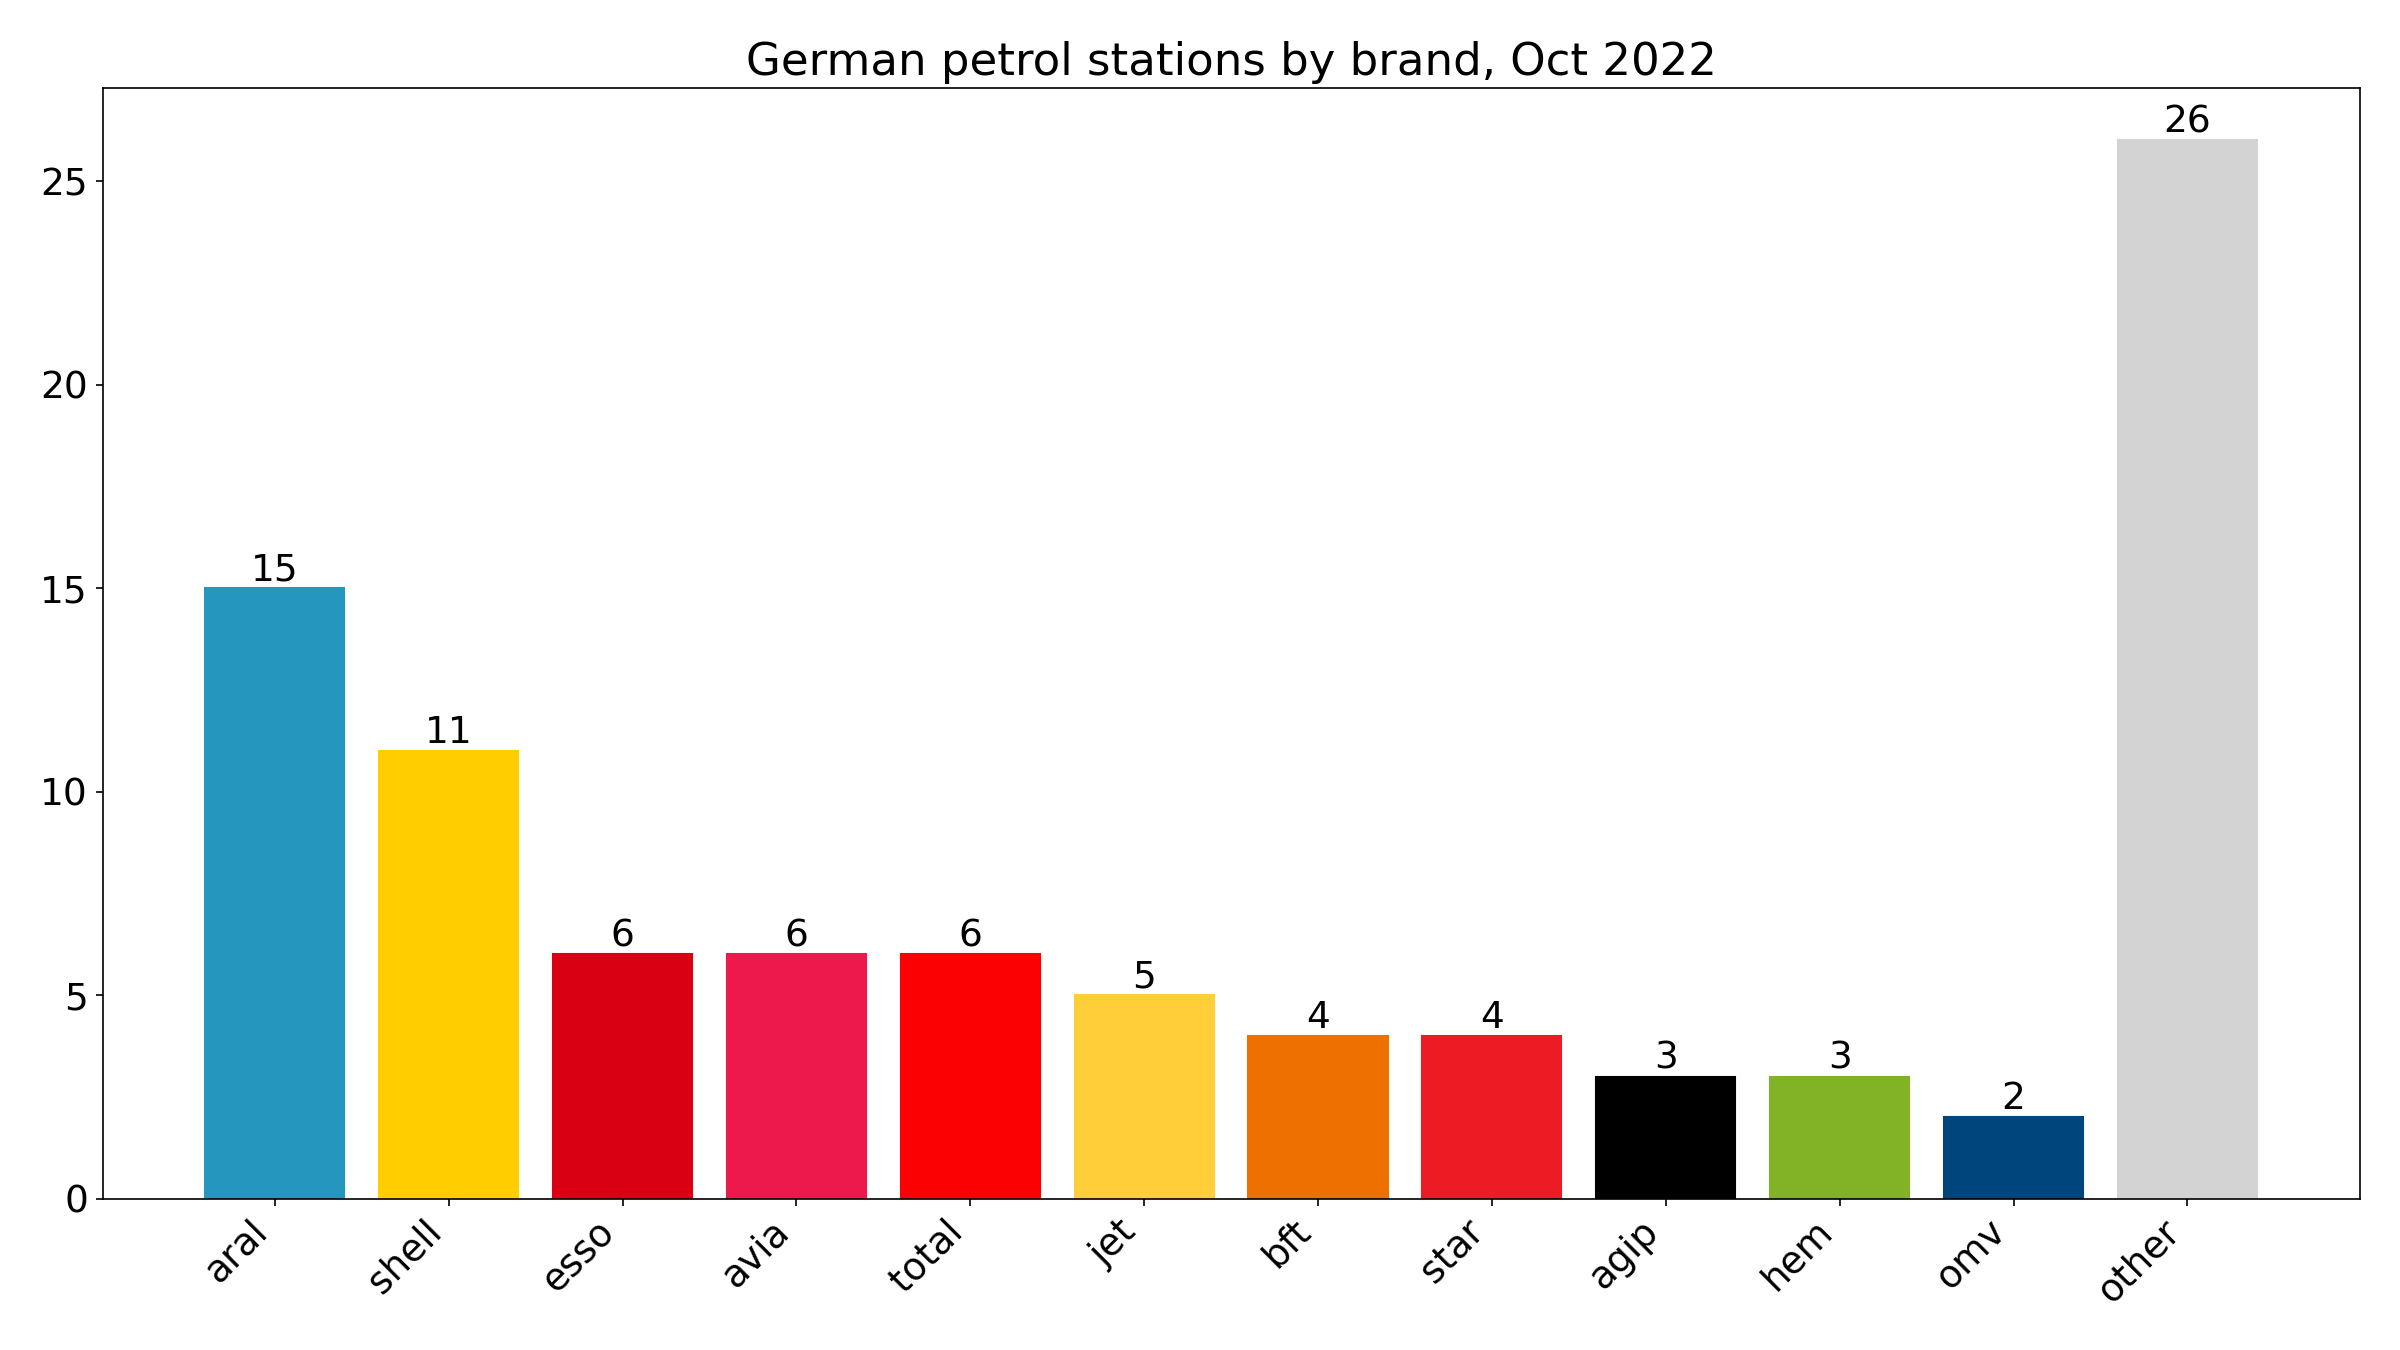
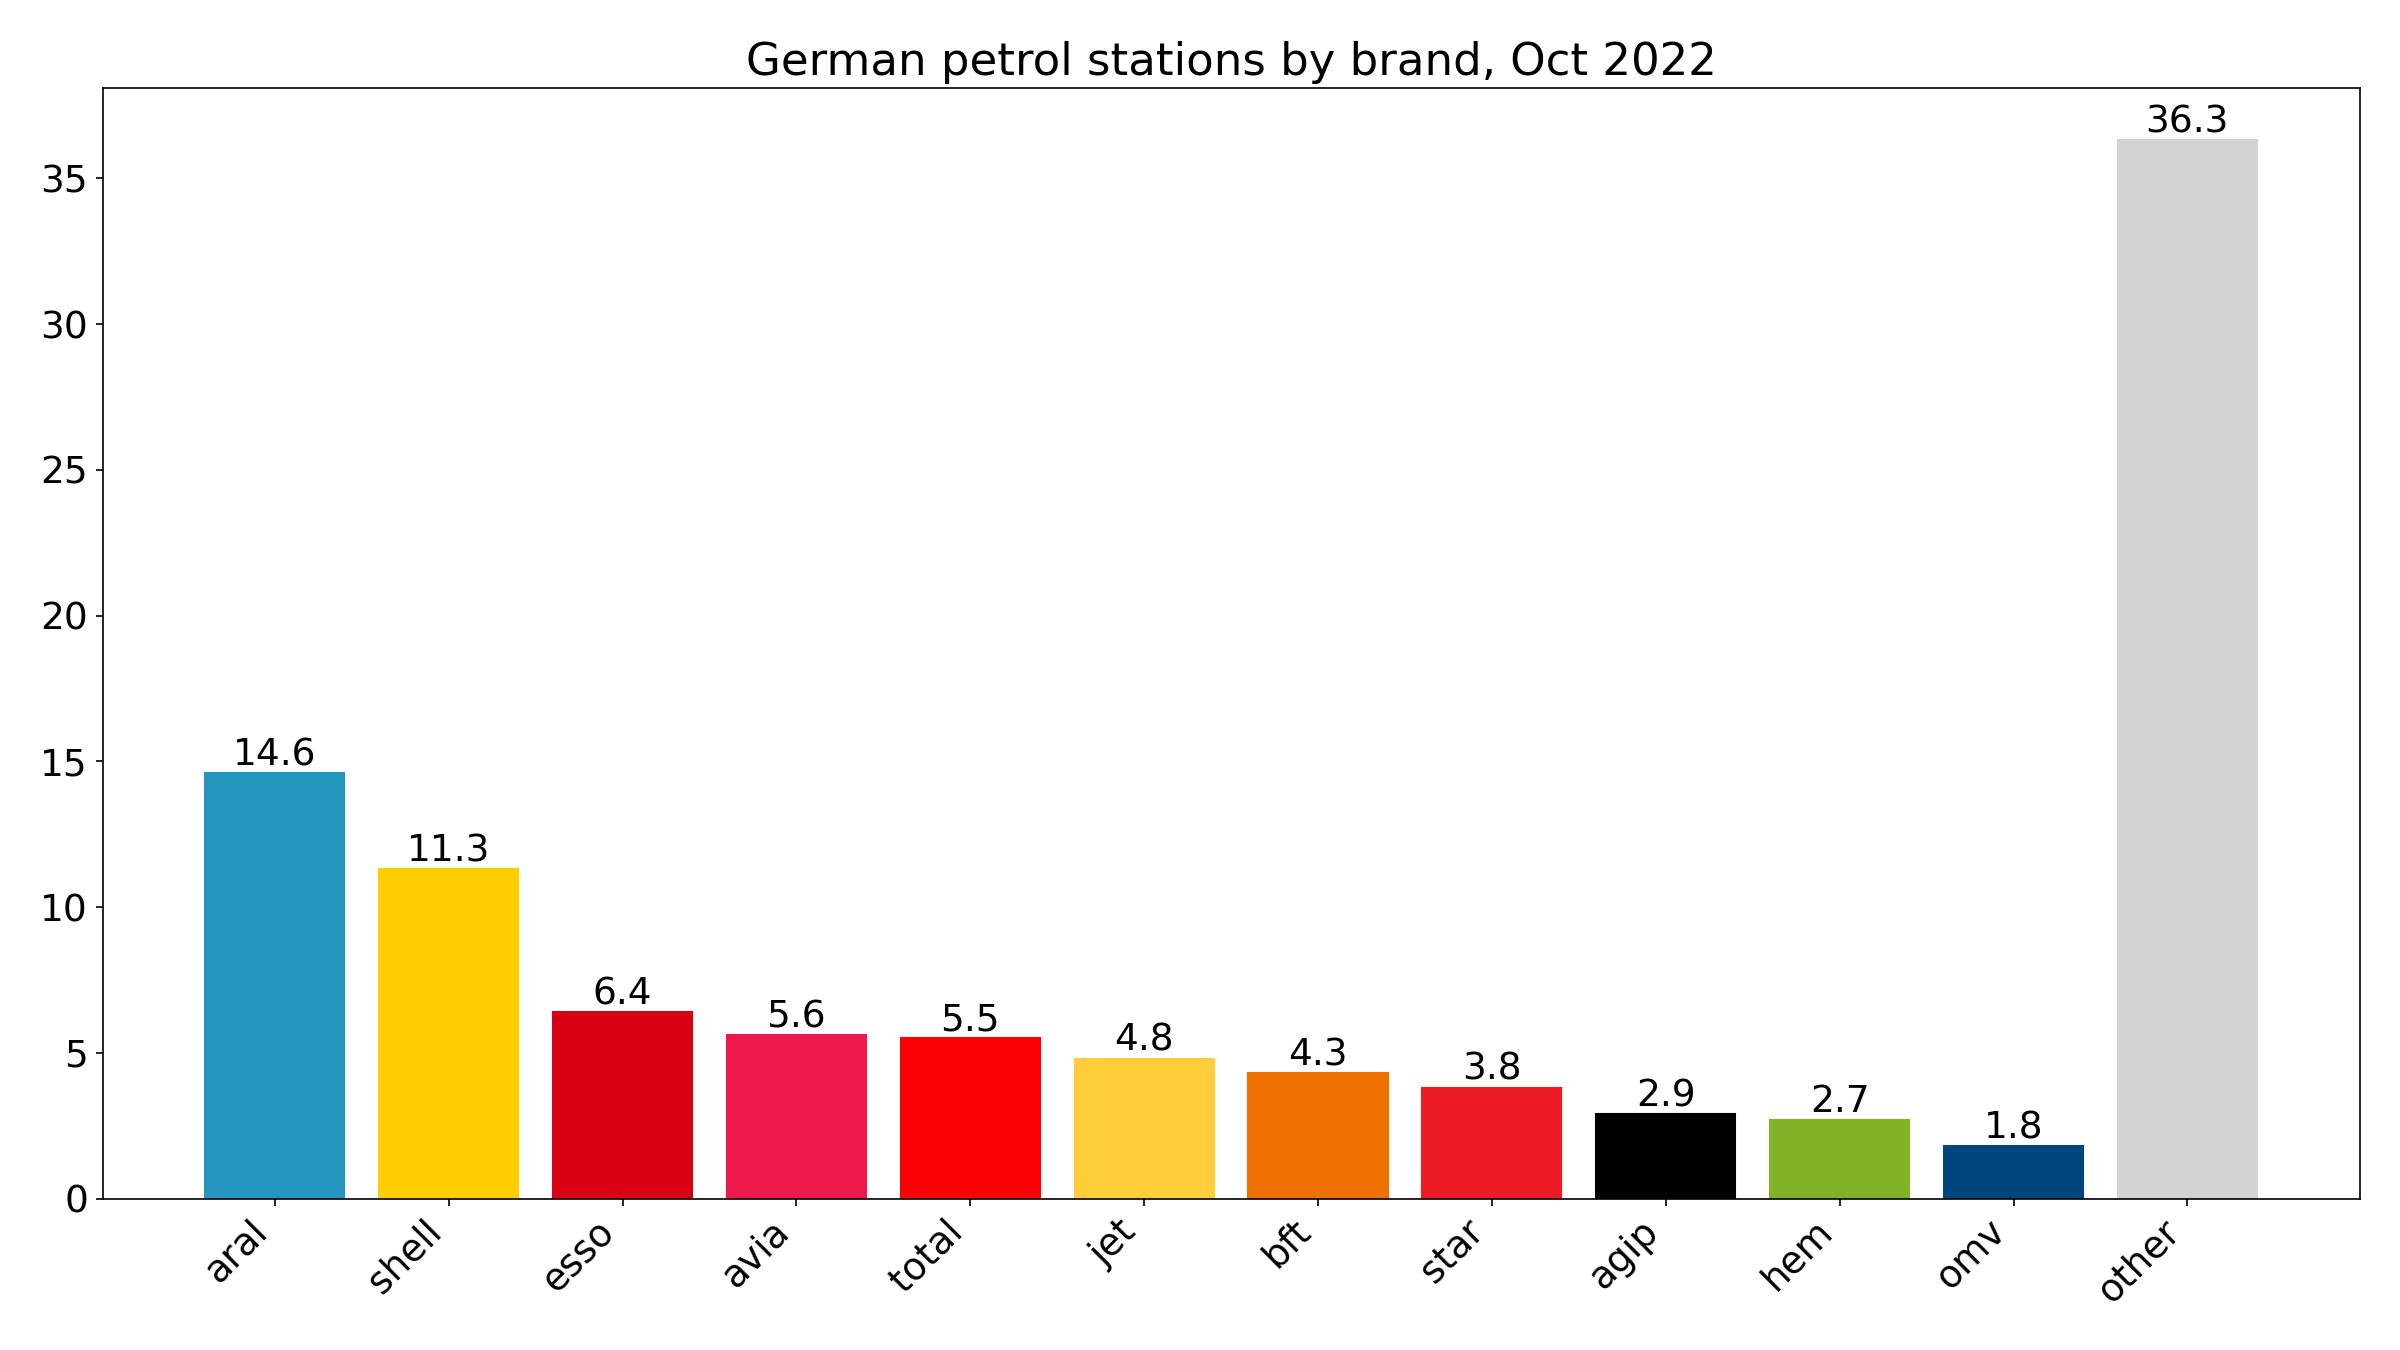
commetning & reshuffling for clarity

diff --git a/py/load_data_0.py b/py/load_data_0.py
@@ -1,0 +1,81 @@
+import pandas as pd
+from datetime import datetime
+import re
+
+# --- 1) stations' characteristics
+
+# load the data file with stations' characteristics
+#df_char = pd.read_csv('../data/stations_characteristics_MUC_long.csv')
+df_char = pd.read_csv('../data/stations_characteristics_all_long.csv')
+
+# change format of dates from string to datetime
+df_char['first'] = pd.to_datetime(df_char['first'], format='%Y-%m-%d')
+#df_char['first'] = pd.to_datetime(df_char['first'], format='%d%b%Y')
+df_char['last'] = pd.to_datetime(df_char['last'], format='%Y-%m-%d')
+#df_char['last'] = pd.to_datetime(df_char['last'], format='%d%b%Y')
+
+
+# --- 2) stations' prices in matrix format (rows: dates x 'id_data', columns: 6:00, 6:05, 6:10, etc.)
+
+# load the data file with prices
+df_prices = pd.read_csv('../data/stations_prices_MUC_wide_10-2022.csv')
+#df_prices = pd.read_csv('../data/stations_prices_all_wide_10-2022.csv')
+
+# change format of dates from string to datetime
+df_prices['date'] = pd.to_datetime(df_prices['date'], format='%d%b%Y')
+
+
+# --- 3) stations' prices in list format (rows: 'id_data' x 'timestamp', column: 'price')
+
+# load the data file with prices
+df_linreg_prices = pd.read_csv('../data/stations_prices_list-fmt_MUC_10-2022.csv')
+
+
+# --- 4) list of price increases by station - timestamp, post-change price, change amount, cycle, etc.
+
+#df_price_inc = pd.read_csv('../data/price-increases_MUC_Oct22_price-leaders.csv')
+df_price_inc = pd.read_csv('../data/price-increases_all-DE_10-2022_price-leaders.csv')
+
+
+# --- 5) list of stations per day with mean price, price at 17h, etc & control variables for each station
+
+#df_daily_station_linreg = pd.read_csv('../data/stations_prices_MUC_10-2022_station-reg.csv')
+df_daily_station_linreg = pd.read_csv('../data/regression_stations_all_DE_Oct-Dec-2022.csv')
+#df_daily_station_linreg = pd.read_csv('../data/stations_prices_all_DE_10-2022_station-reg.csv')
+
+
+# --- 6) share of first movership by brand for each cluster 
+
+df_share_first_movers = pd.read_csv('../data/share_first_movers_all-DE_group85.csv')
+
+
+# ----- UTIL -----
+
+# convert "p_e5_6oclock_0min" to 6:00
+def convertTimestamp(string):
+	hour_match = re.search(r"\d{1,2}oclock", string)
+	minute_match = re.search(r"\d{1,2}min", string)
+
+	if hour_match and minute_match:
+		hour = int(hour_match.group()[:-6])
+		minute = int(minute_match.group()[:-3])
+
+		time = datetime.strptime(f"{hour:02d}:{minute:02d}", "%H:%M").time()
+		return time
+
+	return None  # Return None if the string format doesn't match
+
+
+# change the column names for timestamps from "p_e5_6oclock_0min" to 6:00 (datetime type)
+for column in df_prices.columns:
+    if column.startswith('p_'): 
+    	new_name = convertTimestamp(column)
+    	df_prices.rename(columns={column: new_name}, inplace=True)
+
+
+# check if columns are in chronological order
+for i in range(0, len(df_prices.columns)-1):
+	if isinstance(df_prices.columns[i], str):
+		pass
+	else:
+		assert (df_prices.columns[i] <= df_prices.columns[i + 1]), "Timestamp columns are not in chronological order. Problem at: " + str(df_prices.columns[i])

diff --git a/py/bar_chart_share_margin-firstmovership_3i.py b/py/bar_chart_share_margin-firstmovership_3i.py
@@ -1,0 +1,48 @@
+import matplotlib.pyplot as plt
+import matplotlib.ticker as mtick
+import numpy as np
+import pandas as pd
+
+import stations_colors as sc
+from compilation_first_mover_events_2h import df_brands 
+
+# subtract 100% to get the extra margin
+df_brands['percent'] = df_brands['margin_first-movership'] - 1 
+
+# sorting
+df_brands = df_brands.sort_values(by=['percent'], ascending=False)
+
+
+
+# make font bigger in the generated picture
+plt.rcParams.update({'font.size': 18})
+
+# set the figure and axis
+fig, ax = plt.subplots(figsize=(16, 9))
+
+# generate the plot
+bars = ax.bar(df_brands['brand_id'], df_brands['percent'])
+
+# rotate the label for each bar, as they overlap
+plt.xticks(rotation=45, ha='right')
+
+# add the 0% line 
+ax.axhline(y=0, color='k')
+
+# format to display %
+ax.yaxis.set_major_formatter(mtick.PercentFormatter(1))
+
+# set the color of each bar to the brand's color
+for index, value in enumerate(df_brands['brand_id']):
+    bars[index].set_color(sc.hex_to_rgb(sc.colors_brands[value]))
+
+# set title of the graph
+ax.set_title('Germany: Margin of being the first mover in cluster, Oct 2022')
+
+#plt.show()
+plt.tight_layout()
+
+# save file
+savefile = './samples/barchart_firstmovership_margin.png'
+fig.savefig(savefile, dpi = 150)
+print('Saved: ' + savefile)

diff --git a/py/compilation_first_mover_events_2h.py b/py/compilation_first_mover_events_2h.py
@@ -1,0 +1,41 @@
+from datetime import datetime
+import pandas as pd
+import numpy as np
+
+import functions_1 as fcs
+from functions_1 import df_price_inc
+from functions_1 import df_char
+
+
+cluster = 'group85' # cluster category
+
+df_price_inc = df_price_inc.drop(columns=['group80', 'cycle_leader80', 'mult_leader80', 'group90', 'cycle_leader90', 'mult_leader90'])
+
+# big oil brands relevant
+brands = ['aral', 'shell', 'esso', 'total', 'jet', 'agip', 'avia', 'bft', 'star', 'hem', 'omv']
+
+
+df_exp_obs = pd.read_csv('../data/first_movers_exp-obs_all-DE_10-2022_group85.csv')
+
+df_exp_obs['margin_first-movership'] = df_exp_obs['observed'] / df_exp_obs['expected']
+
+df_otherbrands = df_exp_obs[~df_exp_obs['brand_id'].isin(brands)].reset_index()
+
+df_brands = df_exp_obs.groupby('brand_id').agg({'margin_first-movership': 'mean'}).reset_index()
+
+df_brands = df_brands[df_brands['brand_id'].isin(brands)].reset_index()
+
+
+# Create a new row for 'other' brands
+other_row = pd.DataFrame({
+    'brand_id': ['other'],
+    'margin_first-movership': [df_otherbrands['margin_first-movership'].mean()],
+})
+
+# Concatenate the 'other' row to df_brands
+df_brands = pd.concat([df_brands, other_row], ignore_index=True)
+
+
+df_brands = df_brands.drop(columns='index')
+
+print(df_brands)

diff --git a/py/util_linreg_03.py b/py/util_linreg_03.py
@@ -1,3 +1,9 @@
+'''
+File: util_linreg_03.py
+
+- convert stations' prices in matrix format to list format (i.e. each row with price for each timestamp)
+'''
+
 import pandas as pd
 from datetime import datetime
 
@@ -10,11 +16,11 @@ df_prices = fcs.selectPriceAllRowsRange(start_date, end_date, id_data_updated = 
 
 print(df_prices)
 
-# create dataframe with linreg format 
+# create dataframe with prices in list format 
 df_linreg_prices = fcs.createTableForLinReg(df_prices)
 
 print(df_linreg_prices)
 
 filename = '../data/stations_prices_linreg_MUC_10-2022.csv'
-merged_df.to_csv(filename, index=False)
-print('Saved! ' + filename)
+#merged_df.to_csv(filename, index=False)
+#print('Saved! ' + filename)

diff --git a/py/bar_chart_whole-germany_brands.py b/py/bar_chart_whole-germany_brands.py
@@ -19,7 +19,8 @@ print(n)
 
 grouped = df_char.groupby('brand_id').size().sort_values(ascending=False)
 
-grouped = (grouped / n).round(2) * 100 # market share
+#grouped = (grouped / n).round(2) * 100 # market share
+grouped = (grouped / n) * 100 # market share
 
 big_oil = ['aral', 'shell', 'esso', 'total', 'jet']
 smaller_integrated = ['agip', 'hem', 'omv', 'star', 'avia', 'bft']
@@ -38,10 +39,10 @@ grouped_with_other.loc['other'] = other_category_sum
 
 grouped = grouped_with_other
 
+grouped = grouped.round(1)
 
 rangeX = grouped.index # names of the brands
 rangeY = grouped.values # values = number of stations per brand
-
 
 # set the figure and axis
 fig = plt.figure(figsize=(16, 9))

diff --git a/py/functions_1.py b/py/functions_1.py
@@ -4,12 +4,12 @@ import numpy as np
 import statsmodels.api as sm
 from scipy.signal import find_peaks
 
-from load_char_0a import df_char
-from load_prices_0b import df_prices
-from load_linreg_prices_0c import df_linreg_prices
-from load_price_inc_0d import df_price_inc
-from load_daily_station_linreg_0e import df_daily_station_linreg
-from load_cluster_first_movers_share_0f import df_share_first_movers
+from load_data_0 import df_char
+from load_data_0 import df_prices
+from load_data_0 import df_linreg_prices
+from load_data_0 import df_price_inc
+from load_data_0 import df_daily_station_linreg
+from load_data_0 import df_share_first_movers
 
 
 

diff --git a/py/util_distance_duration_02.py b/py/util_distance_duration_02.py
@@ -1,5 +1,11 @@
+'''
+File: util_distance_duration_02.py
+
+- create control variables for the stations regarding the distance in min to the next station
+'''
+
 import pandas as pd
-from load_char_0a import df_char
+from load_data_0 import df_char
 
 df_dist = pd.read_csv('../data/distance_duration_10min.csv')
 
@@ -30,5 +36,5 @@ df_char = pd.merge(df_char, result_df, on='location_id', how='inner')
 
 print(df_char)
 
-df_char.to_csv('../data/stations_characteristics_MUC_long.csv', index=False)
-print('Saved!')
+#df_char.to_csv('../data/stations_characteristics_MUC_long.csv', index=False)
+#print('Saved!')

diff --git a/py/util_zip-controls_01.py b/py/util_zip-controls_01.py
@@ -1,8 +1,13 @@
+'''
+File: util_zip-controls_01.py
+
+- merge stations characteristics with control variables
+'''
+
 import pandas as pd
-from load_char_0a import df_char
+from load_data_0 import df_char
 
 df_zip = pd.read_csv('../data/zip_controls.csv')
-
 df_char = pd.merge(df_char, df_zip , on='post_code', how='inner')
 
 print(df_char)

diff --git a/py/simple_compilation_2a.py b/py/simple_compilation_2a.py
@@ -24,6 +24,5 @@ df_prices = fcs.selectPriceAllRowsRange(start_date, end_date, True)
 print(df_prices)
 
 
-
 # create a time series
 #df_prices_ts = fcs.trimToTimeSeries(df_prices)
